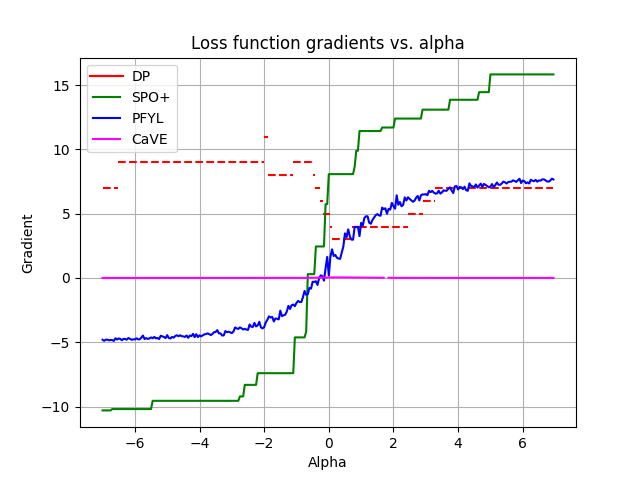
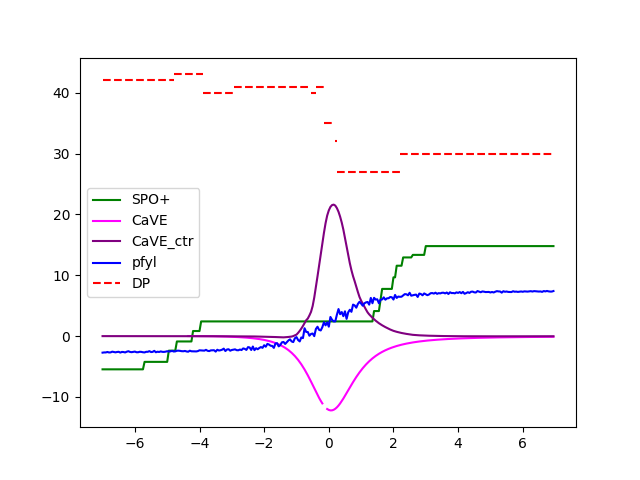
add good cave and plot

diff --git a/cave_loop.py b/cave_loop.py
@@ -19,9 +19,7 @@ from CaVEmain.src.model.tsp import tspDFJModel
 # from tsp import tspDFJModel
 import pickle
 
-def generate_tsp_data(seed):
-    # generate data
-    num_node = 10 # node size
+def generate_tsp_data(seed, num_node):
     num_data = 1 # number of training data
     num_feat = 2 * (num_node * (num_node - 1) // 2)# size of feature
     poly_deg = 1 # polynomial degree
@@ -52,18 +50,14 @@ ranges = [4]
 experiment_size = 10
 
 #knapsack params
-num_items = 50
-capacity = 25
+num_items = 10
+capacity = 20
 
-#tsp params
-num_node = 20 # node size
-num_data = 100 # number of training data
-num_feat = 10 # size of feature
-poly_deg = 4 # polynomial degree
-noise = 0.5 # noise width
+# tsp params
+num_node = 5 # node size
 
 res = np.empty((len(degrees), len(ranges)))
-res_sp = np.empty((len(degrees), len(ranges)))
+res_tsp = np.empty((len(degrees), len(ranges)))
 for d_ind, deg in enumerate(degrees):
     l_infs = []
     l_infs_relative = []
@@ -83,18 +77,18 @@ for d_ind, deg in enumerate(degrees):
             torch.manual_seed(i)
             
             weights, features, values = generate_data(num_items=num_items, capacity=capacity, seed=i)
-            x_tsp, c_tsp = generate_tsp_data(seed=i)
+            x_tsp, c_tsp = generate_tsp_data(seed=i, num_node=num_node)
 
             optmodel = knapsackModel(weights=weights, capacity=capacity)
-            data_set = dataset.optDataset(model=optmodel, feats=features, costs=values)
+            data_set = optDatasetConstrs(model=optmodel, feats=features, costs=values)
             dataloader = DataLoader(data_set, batch_size=1, shuffle=True)
 
             optmodel_tsp = tspDFJModel(num_node)
-            dataset_tsp = optDatasetConstrs(optmodel, x_tsp, c_tsp)
-            dataloader_tsp = DataLoader(dataset, batch_size=1, collate_fn=collate_fn, shuffle=True)
+            dataset_tsp = optDatasetConstrs(optmodel_tsp, x_tsp, c_tsp)
+            dataloader_tsp = DataLoader(dataset_tsp, batch_size=1, collate_fn=collate_fn, shuffle=True)
 
             cave = exactConeAlignedCosine(optmodel=optmodel, solver="clarabel")
-            cave_tsp = exactConeAlignedCosine(optmodel, solver="clarabel", processes=1)
+            cave_tsp = exactConeAlignedCosine(optmodel=optmodel_tsp, solver="clarabel")
 
             cave_values = []
             cave_gradients = []
@@ -103,15 +97,14 @@ for d_ind, deg in enumerate(degrees):
             cave_tsp_gradients = []
 
             for data in dataloader:
-                x, c, w, z = data
+                x, c, w, z, bctr = data
                 x = torch.reshape(x, (2, num_items))
 
                 for alpha in alpha_values:
                     predmodel = ValueModel(alpha=alpha)
                     cp = predmodel.forward(x)
 
-                    weights_cave = torch.unsqueeze(torch.tensor(weights), dim=0)
-                    cave_loss = cave(cp, weights_cave)
+                    cave_loss = cave(cp, bctr)
                     cave_loss.backward(retain_graph=True)
                     cave_values.append(cave_loss.item())
                     cave_gradients.append(predmodel.alpha.grad.item())
@@ -124,8 +117,7 @@ for d_ind, deg in enumerate(degrees):
                     predmodel = ValueModel(alpha=alpha)
                     cp = predmodel.forward(x)
 
-                    bctr_cave = torch.unsqueeze(torch.tensor(bctr), dim=0)
-                    cave_loss = cave_tsp(cp, bctr_cave)
+                    cave_loss = cave_tsp(cp, bctr)
                     cave_loss.backward(retain_graph=True)
                     cave_tsp_values.append(cave_loss.item())
                     cave_tsp_gradients.append(predmodel.alpha.grad.item())
@@ -142,25 +134,38 @@ for d_ind, deg in enumerate(degrees):
             fit = np.polynomial.polynomial.Polynomial.fit(alpha_values, safe_tsp_gradients, deg)
             cubic_tsp_fits.append(fit)
 
-        #create plots
+        # #create plots
         for i in range(experiment_size):
-            plt.plot(alpha_values, cave_gradients_total[i])
+            plt.plot(alpha_values, cave_gradients_total[i], label='CaVE')
             xx, yy = cubic_fits[i].linspace()
-            plt.plot(xx, yy)
+            plt.plot(xx, yy, label='fit')
             # plt.plot(alpha_values, cave_values_total[i])
-            plt.savefig(f'cave_fit_{i}_1')
+            plt.savefig(f'cave_fit_{i}')
             plt.clf()
 
         for i in range(experiment_size):
-            plt.plot(alpha_values, cave_tsp_gradients_total[i])
+            plt.plot(alpha_values, cave_tsp_gradients_total[i], label='CaVE')
             xx, yy = cubic_tsp_fits[i].linspace()
-            plt.plot(xx, yy)
+            plt.plot(xx, yy, label='fit')
             # plt.plot(alpha_values, cave_values_total[i])
-            plt.savefig(f'cave_tsp_fit_{i}_1')
+            plt.savefig(f'cave_tsp_fit_{i}')
             plt.clf()
 
 
         #calc relative l_inf norms
+        # for i in range(experiment_size):
+        #     fit = cubic_fits[i]
+        #     grads = cave_gradients_total[i]
+        #     errors = []
+        #     max_dist = np.max(grads) - np.min(grads)
+        #     for idx, a_val in enumerate(alpha_values):
+        #         errors.append(np.abs(grads[idx] - fit(a_val)))
+        #     l_infs.append(np.max(errors))
+        #     l_infs_relative.append(np.max(errors)/max_dist * 100)
+        #     MSE_vals.append(np.mean(np.power(errors, 2)))
+
+        # res[d_ind,r_ind] = np.mean(l_infs)
+
         # for i in range(experiment_size):
         #     fit = cubic_fits[i]
         #     grads = cave_gradients_total[i]

diff --git a/main.py b/main.py
@@ -12,17 +12,17 @@ from dp.dynamic import DP_Knapsack
 from predmodel import ValueModel
 
 from CaVEmain.src.cave import exactConeAlignedCosine
-
+from CaVEmain.src.dataset import optDatasetConstrs, collate_fn
 torch.manual_seed(100)
 
-num_items = 100
-capacity = 60
+num_items = 50
+capacity = 30
 
-weights, features, values = generate_data(num_items=num_items, capacity=capacity, seed=30)
+weights, features, values = generate_data(num_items=num_items, capacity=capacity, seed=37)
 
 optmodel = knapsackModel(weights=weights, capacity=capacity)
-dataset = dataset.optDataset(model=optmodel, feats=features, costs=values)
-dataloader = DataLoader(dataset, batch_size=1, shuffle=True)
+dataset = optDatasetConstrs(model=optmodel, feats=features, costs=values)
+dataloader = DataLoader(dataset, batch_size=1, collate_fn=collate_fn, shuffle=True)
 
 spop = SPOPlus(optmodel=optmodel)
 pfy = perturbedFenchelYoung(optmodel=optmodel)
@@ -43,10 +43,12 @@ spop_gradients = []
 pfy_values = []
 pfy_gradients = []
 cave_values = []
+cave_values_ctr = []
 cave_gradients = []
+cave_gradients_ctr = []
 
 for data in dataloader:
-    x, c, w, z = data
+    x, c, w, z, bctr = data
     x = torch.reshape(x, (2, num_items))
 
     for alpha in alpha_values:
@@ -66,12 +68,16 @@ for data in dataloader:
         pfy_gradients.append(predmodel.alpha.grad.item())
 
         predmodel.zero_grad()
+        cave_loss_ctr = cave(cp, bctr)
+        cave_loss_ctr.backward(retain_graph=True)
+        cave_values_ctr.append(cave_loss_ctr.item() * 100)
+        cave_gradients_ctr.append(predmodel.alpha.grad.item() * 100)
 
-        w_cave = torch.unsqueeze(w, dim=0)
-        cave_loss = cave(cp, w_cave)
+        predmodel.zero_grad()
+        cave_loss = cave(cp, torch.unsqueeze(torch.tensor(weights), dim=0))
         cave_loss.backward(retain_graph=True)
-        cave_values.append(cave_loss.item())
-        cave_gradients.append(predmodel.alpha.grad.item())
+        cave_values.append(cave_loss.item() * 100)
+        cave_gradients.append(predmodel.alpha.grad.item() * 100)
 
 # Plot loss function gradients
 # Create base plot with DP solutions
@@ -81,12 +87,24 @@ plt.xlabel("Alpha")
 plt.ylabel("loss")
 # Plot SPO loss
 spop_loss_plot = plt.plot(alpha_values, spop_values, color="green", label='SPO+')
+cave_loss_plot = plt.plot(alpha_values, cave_values, color='magenta', label='CaVE')
+cave_loss_plot = plt.plot(alpha_values, cave_values_ctr, color='purple', label='CaVE_ctr')
+pfyl_loss_plot = plt.plot(alpha_values, pfy_values, color='blue', label='PFYL')
 for interval, loss in zip(intervals, loss_plots):
     plt.plot(interval, loss, '--', color='red',)
-plt.legend(['SPO+','SPO'])
-plt.savefig("spo_loss.png")
+plt.legend(['SPO+', 'CaVE', 'CaVE_ctr' 'pfyl', 'SPO'])
+plt.savefig("true_spo_loss.png")
 
 plt.clf()
+
+spop_loss_plot = plt.plot(alpha_values, spop_gradients, color="green", label='SPO+')
+cave_loss_plot = plt.plot(alpha_values, cave_gradients, color='magenta', label='CaVE')
+cave_loss_plot = plt.plot(alpha_values, cave_gradients_ctr, color='purple', label='CaVE_ctr')
+pfyl_loss_plot = plt.plot(alpha_values, pfy_gradients, color='blue', label='PFYL')
+for interval, loss in zip(intervals, horzizontal_plots):
+    plt.plot(interval, loss, '--', color='red',)
+plt.legend(['SPO+', 'CaVE', 'CaVE_ctr', 'pfyl', 'DP'])
+plt.savefig("gradients.png")
 # Remove SPO+ to create the next plot
 # spop_loss_plot[0].remove()
 # Plot SPO on top
